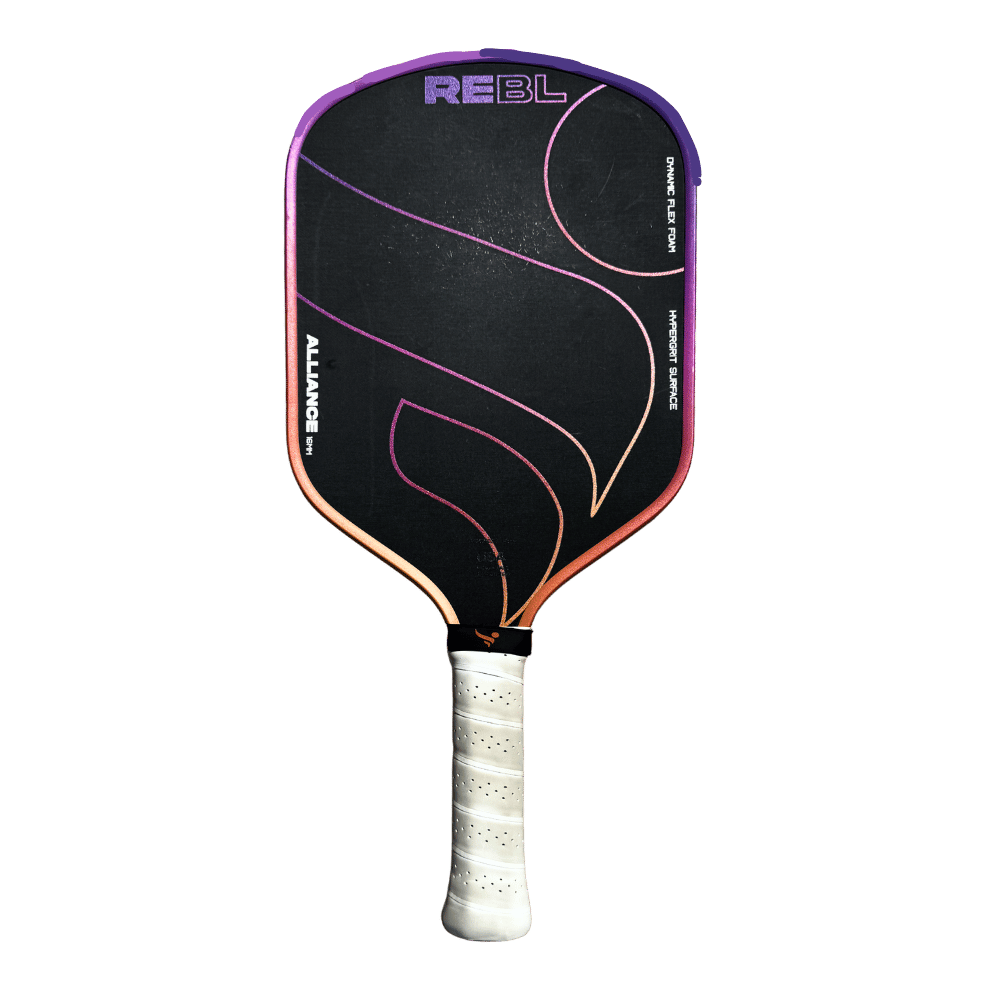
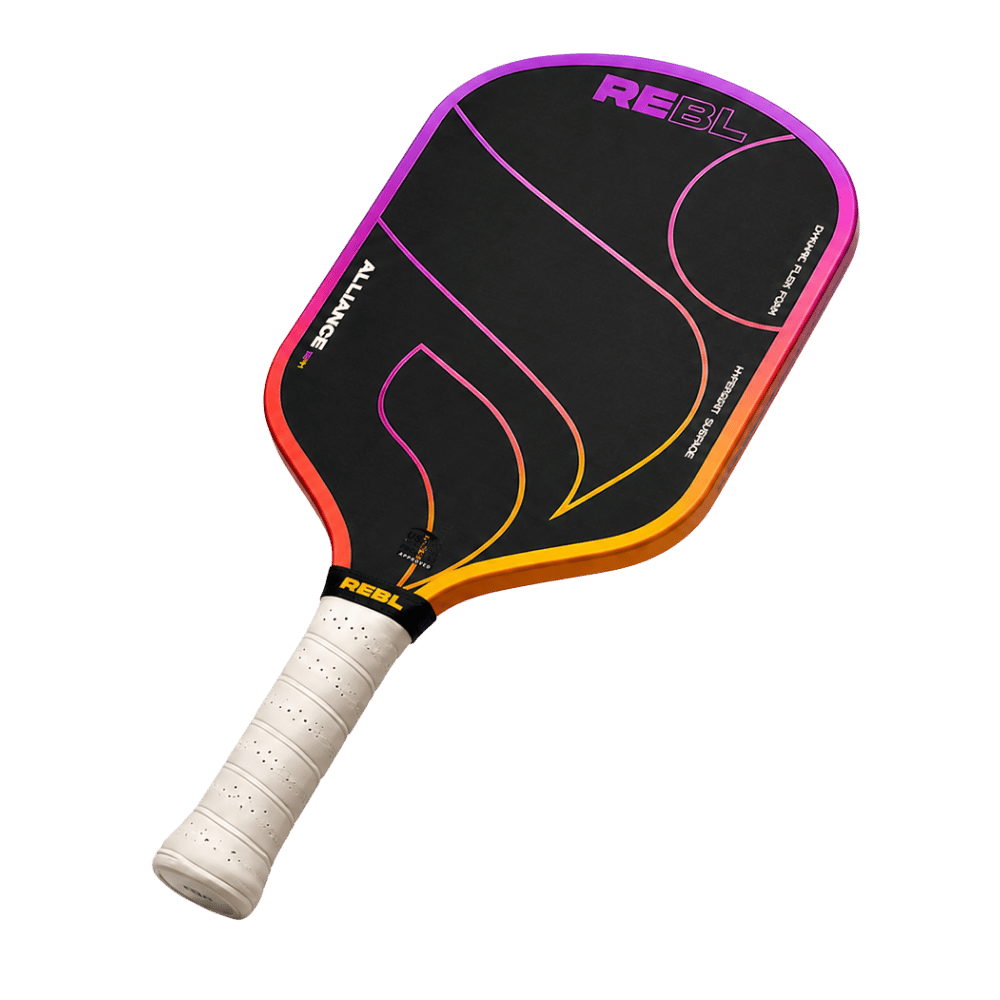
Update Rebl image, add Honolulu Crystal Blue + Gherkin Draco reviews
- Updated Rebl Alliance paddle image
- Add Honolulu Crystal Blue review (npb1mJrEakM) to all 3 shapes
- Update Gherkin Draco Elongated + Widebody review (8Rf2xj5Rr2o)
- Review order: Honolulu (May 14) > Rebl (May 13) > Gherkin (May 12)

Changed region(s): [[0.155, 0.031, 0.868, 0.961], [0.465, 0.31, 0.496, 0.341]]

diff --git a/src/data/paddles.ts b/src/data/paddles.ts
@@ -1625,6 +1625,7 @@ export const paddles: Paddle[] = [
     amountOff: "15%",
     price: "$195.00",
     discountLink: "https://lockerroompickleball.com/discount/PLAYBOOK?redirect=/collections/pickleball-paddles/products/j2cr-crystal-blue-endurance-surface%3Fvariant%3D47151745302659%26sca_ref%3D8334840.yY4rLJi7oU9HDNHD",
+    manualVideoId: "npb1mJrEakM",
     addedAt: "2026-05-11",
     trendingScore: 50,
     playStyle: "all-court",
@@ -1643,6 +1644,7 @@ export const paddles: Paddle[] = [
     amountOff: "10%",
     price: "$195.00",
     discountLink: "https://808pickle.com/discount/PLAYBOOK?redirect=/products/j3cr-crystal-blue%E2%84%A2-endurance-surface%E2%84%A2",
+    manualVideoId: "npb1mJrEakM",
     addedAt: "2026-05-11",
     trendingScore: 50,
     playStyle: "all-court",
@@ -1661,6 +1663,7 @@ export const paddles: Paddle[] = [
     amountOff: "10%",
     price: "$195.00",
     discountLink: "https://808pickle.com/discount/PLAYBOOK?redirect=/products/j6cr-crystal-blue-endurance-surface%E2%84%A2-pre-order",
+    manualVideoId: "npb1mJrEakM",
     addedAt: "2026-05-11",
     trendingScore: 50,
     playStyle: "all-court",
@@ -1812,7 +1815,7 @@ export const paddles: Paddle[] = [
     amountOff: "10%",
     price: "$179.99",
     discountLink: "https://www.gherkinusa.com/discount/PLAYBOOK?redirect=/%3Fsca_ref%3D10967552.q1z8WlPL8s",
-    manualVideoId: "gXAkwcVJ3uk",
+    manualVideoId: "8Rf2xj5Rr2o",
     addedAt: "2026-04-28",
     trendingScore: 60,
     playStyle: "power",
@@ -1831,7 +1834,7 @@ export const paddles: Paddle[] = [
     amountOff: "10%",
     price: "$179.99",
     discountLink: "https://www.gherkinusa.com/discount/PLAYBOOK?redirect=/%3Fsca_ref%3D10967552.q1z8WlPL8s",
-    manualVideoId: "gXAkwcVJ3uk",
+    manualVideoId: "8Rf2xj5Rr2o",
     addedAt: "2026-04-28",
     trendingScore: 60,
     playStyle: "all-court",
@@ -1943,7 +1946,9 @@ export const paddles: Paddle[] = [
 // Review dates — ISO publish dates for Latest Reviews sort (newest-first)
 // Set youtubeApiKey in site.ts to auto-fetch real dates; or fill in manually.
 export const reviewDates: Record<string, string> = {
-  VOoscbHplro:   "2026-05-14",  // Rebl Alliance
+  npb1mJrEakM:   "2026-05-14",  // Honolulu Crystal Blue Endurance (J2CR, J3CR, J6CR)
+  VOoscbHplro:   "2026-05-13",  // Rebl Alliance
+  "8Rf2xj5Rr2o": "2026-05-12",  // Gherkin Draco Elongated + Widebody
   ZmxCypU71w4:   "2026-05-11",  // Engage X2
   hLprDNd4Zxo:   "2026-05-09",  // Enhance Turbo MPP
   Z1e4mRHG2r8:   "2026-05-09",  // SixZero Coral
